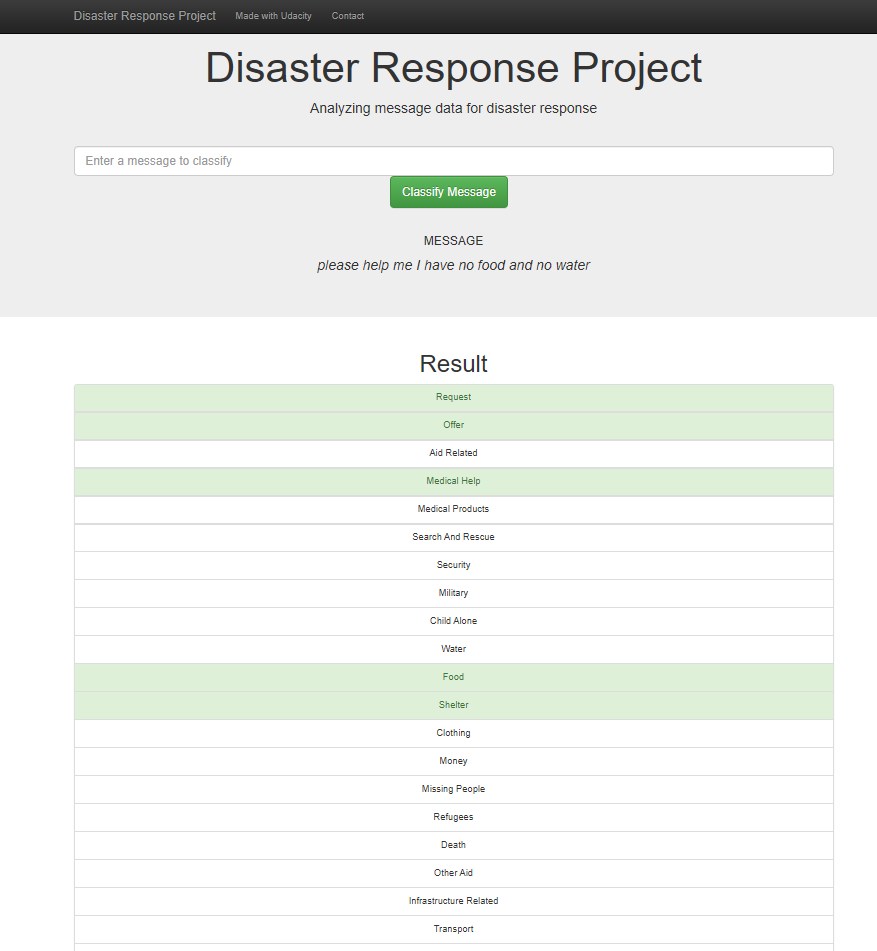
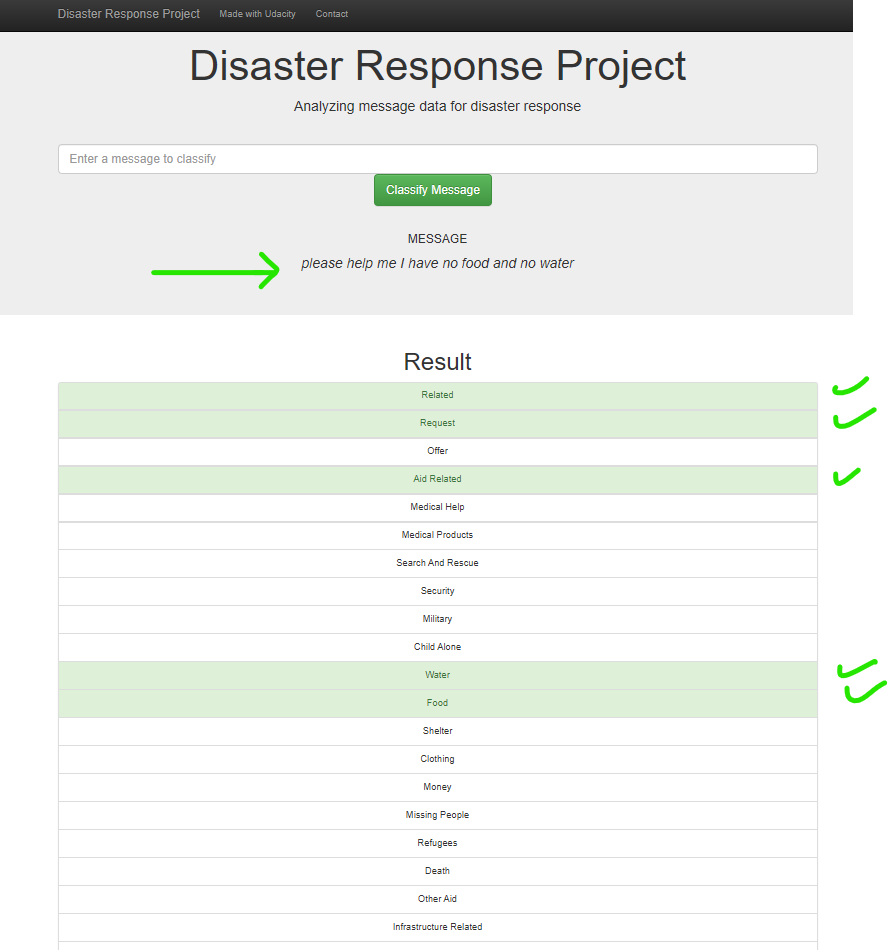
updating visuals from improved model

diff --git a/app/run.py b/app/run.py
@@ -139,7 +139,7 @@ def go():
 
     # use model to predict classification for query
     classification_labels = model.predict([query])[0]
-    classification_results = dict(zip(df.columns[4:], classification_labels))
+    classification_results = dict(zip(df.columns[3:], classification_labels))
 
     # This will render the go.html Please see that file.
     return render_template(
